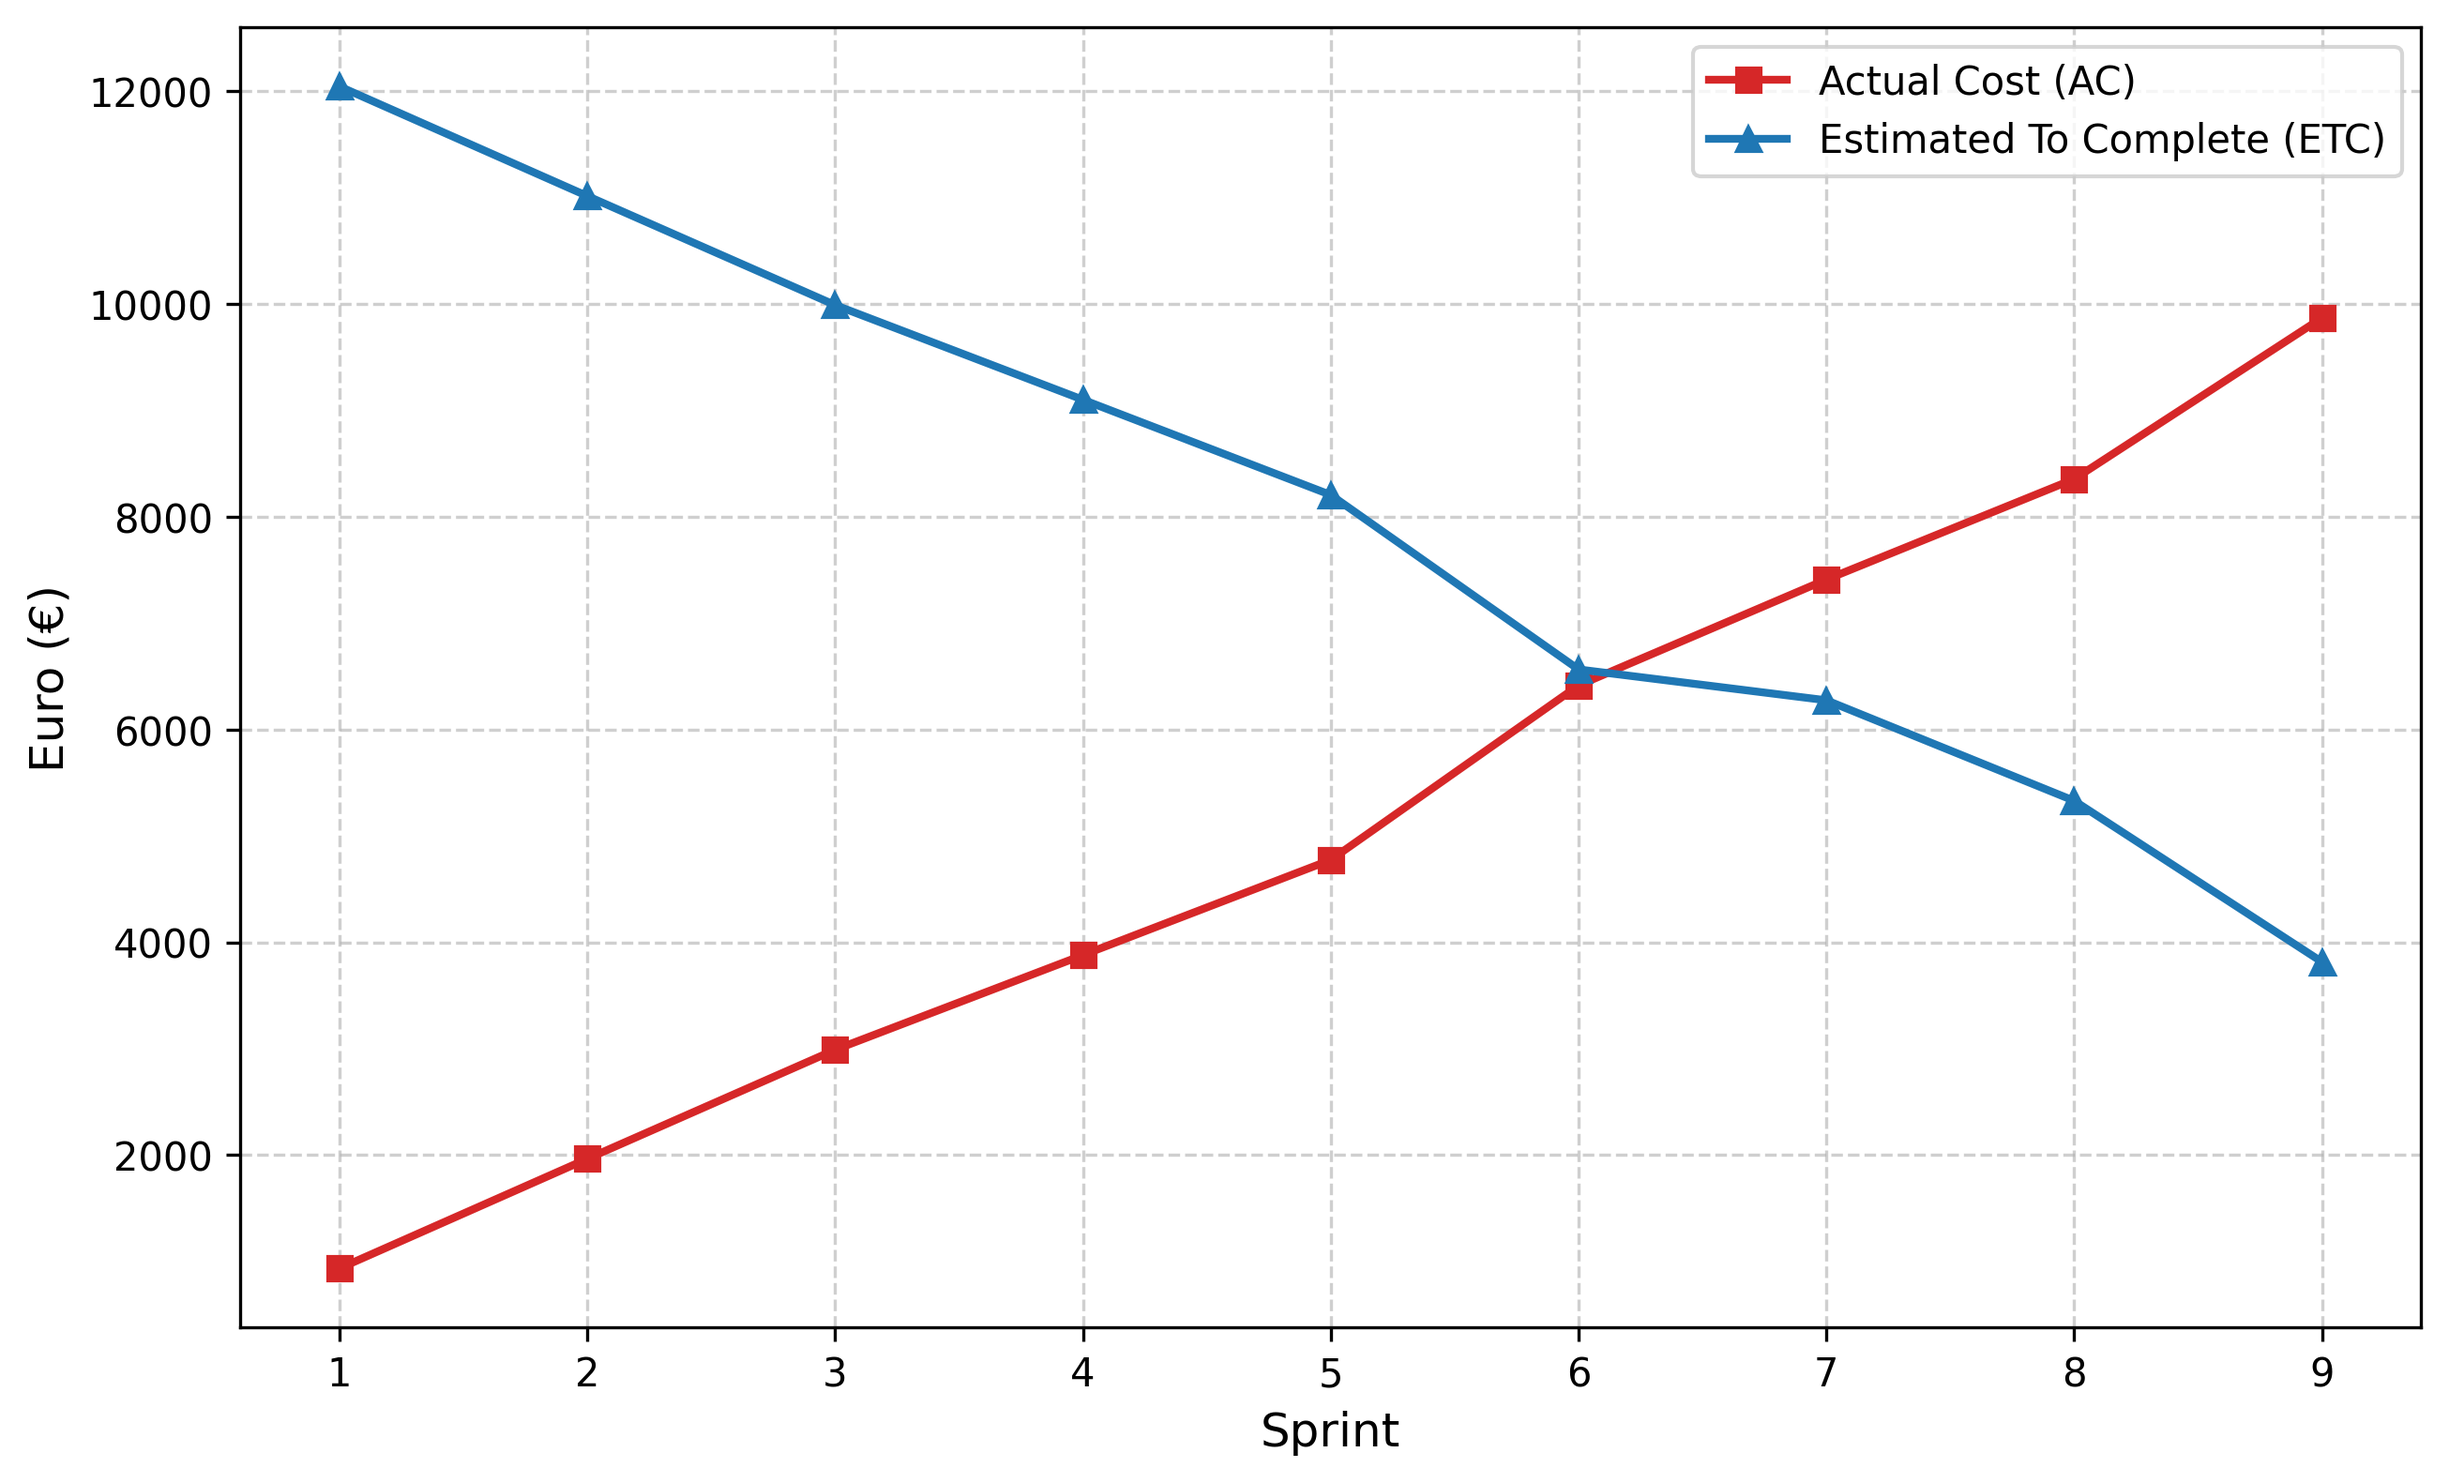
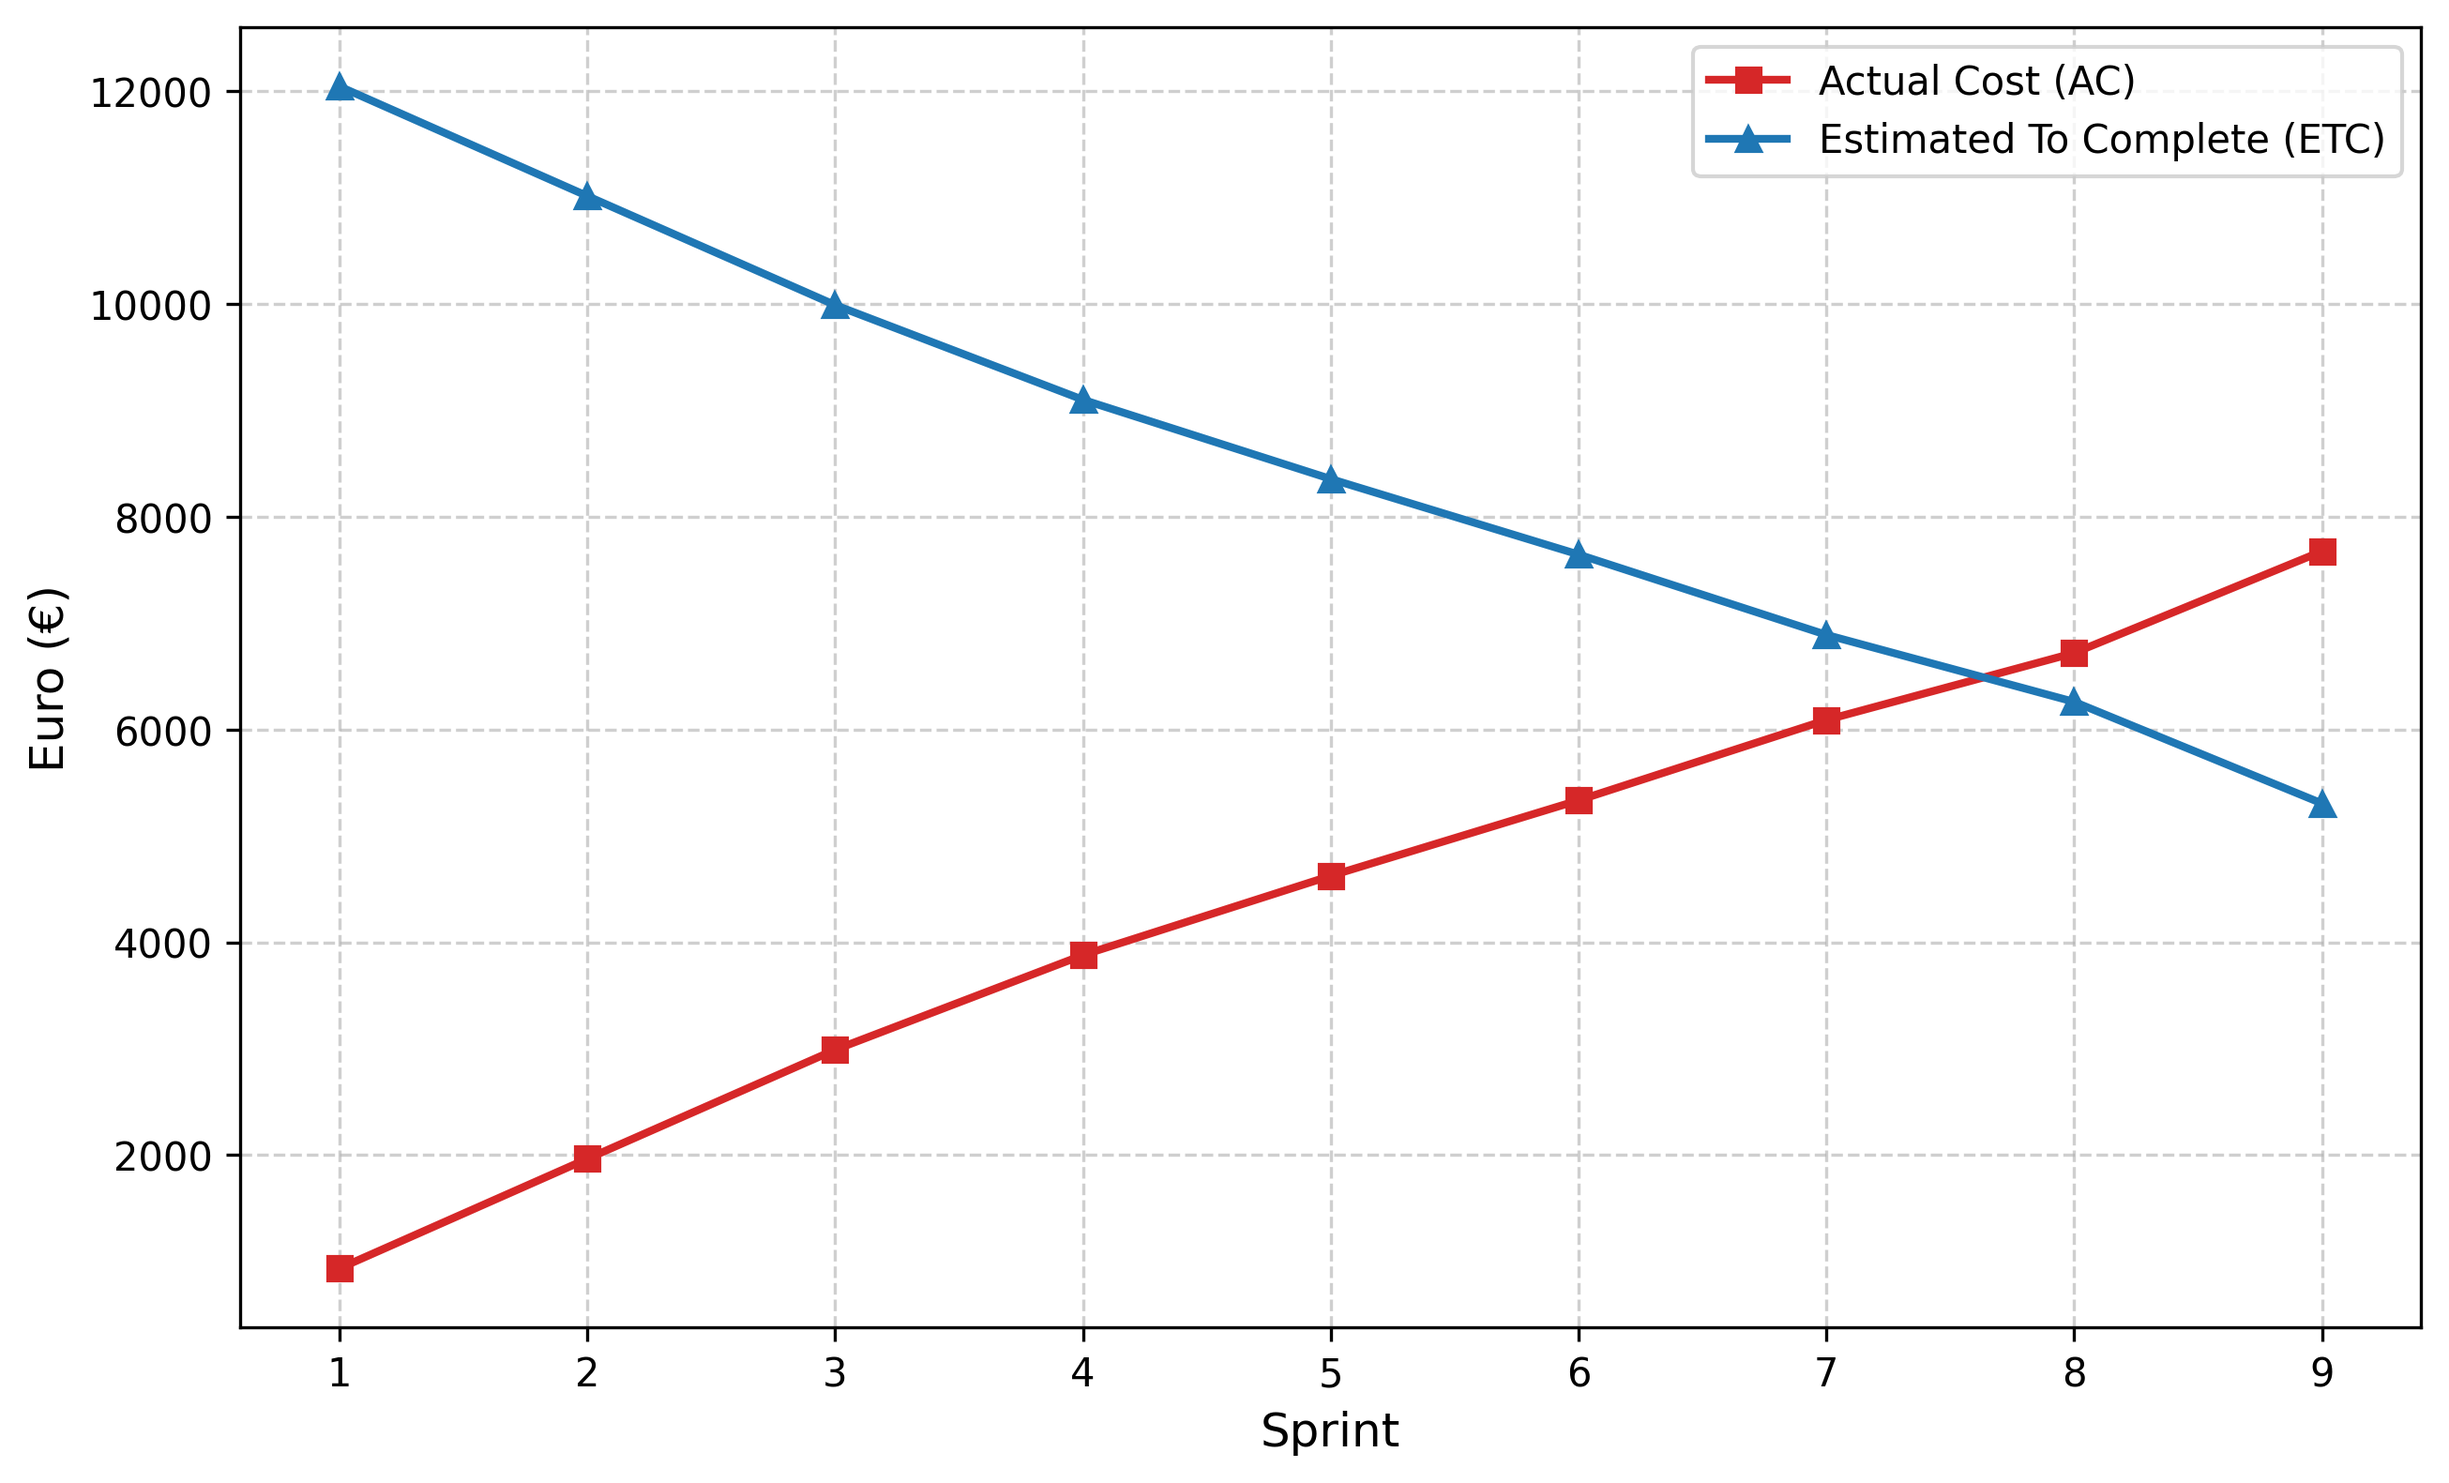
modifiche PDQ

diff --git a/1 - RTB/Documenti esterni/Piano_di_Qualifica_v0_10.tex b/1 - RTB/Documenti esterni/Piano_di_Qualifica_v0_10.tex
@@ -165,7 +165,7 @@
                         MPC05 & Estimated to Completion & $\ge 0$ & $\le EAC$ \\
                         \hline
 
-                        MPC06 & Estimated at Completion & $\le BAC + 10\%$ & $\le BAC$ \\
+                        MPC06 & Estimated at Completion & $\le BAC + 5\%$ & $\le BAC$ \\
                         \hline
 
                         MPC07 & Cost Variance & $\ge -5\%$ & $\ge 0\%$\\
@@ -808,7 +808,7 @@ In questa sezione vengono riportati gli andamenti durante tutti gli sprint delle
     \noindent
     La metrica analizza il costo effettivo sostenuto alla data corrente e l’ETC, cioè il budget stimato per il completamento. 
     Per la natura di queste metriche, l’andamento ottimale previsto è l'aumento progressivo di AC e la diminuzione dell’ETC, fino alla loro convergenza.
-    Il gruppo è riuscito a mantenere questo andamento in modo costante, registrando una variazione a partire dagli sprint 4 e 5, corrispondente all’inizio della sessione d’esami. 
+    Il gruppo è riuscito a mantenere questo andamento in modo costante.
 
     \subsection{MPC06 - Estimated at Completion (EAC)}
     
@@ -820,8 +820,7 @@ In questa sezione vengono riportati gli andamenti durante tutti gli sprint delle
     \end{figure}
     
     \noindent
-    L’andamento della metrica EAC (Estimated at Completion), che rappresenta la somma tra costo sostenuto alla data di controllo e costo previsto fino alla consegna, si è mantenuto complessivamente in linea con il BAC (Budget at Completion, valore totale previsto). Solo inizialmente si è registrato un piccolo scostamento positivo tra i due valori (rimanendo però sopra al limite inferiore per il budget), imputabile alla gestione non ottimale della documentazione. Tuttavia, il gruppo è riuscito subito a delineare delle misure migliori per arginare il problema, infatti dallo sprint 3 il valore di EAC è migliorato, rimanendo sempre stabilmente sotto il BAC. 
-    Negli ultimi sprint, la necessità di recuperare il lavoro arretrato ha comportato un incremento dell'EAC. 
+    L’andamento della metrica EAC (Estimated at Completion), che rappresenta la somma tra costo sostenuto alla data di controllo e costo previsto fino alla consegna, si è mantenuto in linea con il BAC (Budget at Completion, valore totale previsto). 
 
     \subsection{MPC10 - Requirements Stability Index (RSI)}
     
